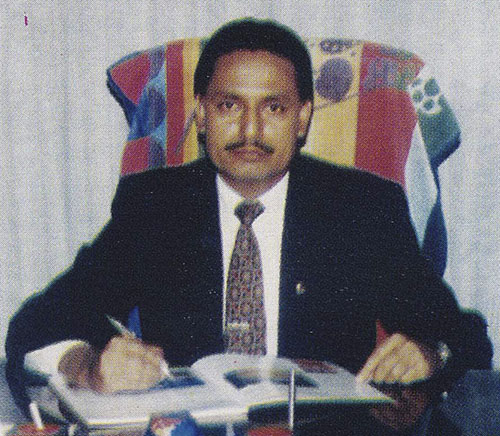
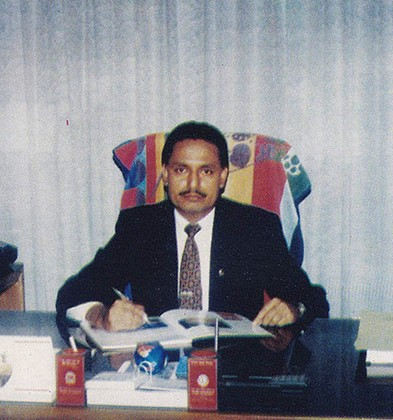
font, team image changes and add netlify attribute to the contact form

diff --git a/index.html b/index.html
@@ -32,7 +32,7 @@
   <header id="home">
     <div id="home-slider" class="carousel slide carousel-fade" data-ride="carousel">
       <div class="carousel-inner">
-        <div class="item active" style="background-image: url(images/slider/boss.jpg)">
+        <div class="item active" style="background-image: url(images/slider/boss.jpg);">
           <div class="caption">
             <h1 class="animated fadeInLeftBig">Welcome to <span>AL-DUSHARY ENTERPRISE</span></span></h1>
             <p class="animated fadeInRightBig">Govt. Approved Recruiting Agency. <br/>License No: RL-420</p>
@@ -205,7 +205,7 @@
               <i>1</i>
             </div>
             <div class="service-info">
-              <h3>Categorisation of workers</h3>
+              <h3>CATEGORISATION OF WORKERS</h3>
               <p>We categorized our manpower resources under different heads such as skilled, semi-skilled and unskilled manpower. We also categorise them sectorwise.</p>
             </div>
           </div>
@@ -321,6 +321,7 @@
           </div>
           <div class="company-list">
             <h3>clients in Malaysia</h1>
+              <hr>
             <ul>
               <li><a target="_blank" rel="noopener noreferrer" href="https://www.felda.gov.my/">Falda</a></li>
               <li><a target="_blank" rel="noopener noreferrer" href="https://www.felcra.com.my/">Felcra Berhad</a></li>
@@ -366,6 +367,7 @@
           </div>
           <div class="company-list">
             <h3>clients in Saudi Arabia</h1>
+              <hr>
             <ul>
               <li>BEER AL-WADY EST.</li>
               <li>HALIL DAYFULLAH AL-MOTAIRY</li>
@@ -399,6 +401,7 @@
           </div>
           <div class="company-list">
             <h3>clients in Dubai</h1>
+              <hr>
             <ul>
               <li>WARDA APPARELS</li>
               <li>SULAIMAN GARMENTS</li>
@@ -429,6 +432,7 @@
           </div>
           <div class="company-list">
             <h3>clients in Oman</h1>
+              <hr>
             <ul>
               <li>GULF APPARELS</li>
             </ul>
@@ -453,6 +457,7 @@
           </div>
           <div class="company-list">
             <h3>clients in Singapore</h1>
+              <hr>
             <ul>
               <li>SMA ENGINEERING & CONSTRUCTION</li>
               <li>ZSC ENTERPRISE DPS ENTERPRISE</li>
@@ -478,6 +483,7 @@
           </div>
           <div class="company-list">
             <h3>clients in Bahrain</h1>
+              <hr>
             <ul>
               <li>CONCORD GARMENTS MANAMA</li>
               <li><a target="_blank" rel="noopener noreferrer" href="http://www.nassgroup.com/">ABDULLAH AL NASS MANAMA</a></li>
@@ -503,31 +509,12 @@
       </div>
       <div class="team-members">
         <div class="row">
-          <div class="col-sm-3">
+          <div class="col-sm-12">
             <div class="team-member wow flipInY" data-wow-duration="1000ms" data-wow-delay="300ms">
               <div class="member-image">
-                <img class="img-responsive" src="images/team/jaman.jpg" alt="">
-              </div>
-              <div class="member-info">
-                <h3>Mohammad Kamruzzaman</h3>
-                <h4>Manager</h4>
-                <p></p>
-              </div>
-              <!-- <div class="social-icons">
-                <ul>
-                  <li><a class="facebook" href="#"><i class="fa fa-facebook"></i></a></li>
-                  <li><a class="twitter" href="#"><i class="fa fa-twitter"></i></a></li>
-                  <li><a class="linkedin" href="#"><i class="fa fa-linkedin"></i></a></li>
-                  <li><a class="dribbble" href="#"><i class="fa fa-dribbble"></i></a></li>
-                  <li><a class="rss" href="#"><i class="fa fa-rss"></i></a></li>
-                </ul>
-              </div> -->
-            </div>
-          </div>
-          <div class="col-sm-3">
-            <div class="team-member wow flipInY" data-wow-duration="1000ms" data-wow-delay="500ms">
-              <div class="member-image">
-                <img class="img-responsive" src="images/team/boss.jpg" alt="">
+                <div class="text-center">
+                  <img class="rounded" src="images/team/boss.jpg" alt="">
+                </div>
               </div>
               <div class="member-info">
                 <h3>Mohammed Sanaullah</h3>
@@ -545,10 +532,31 @@
               </div> -->
             </div>
           </div>
-          <div class="col-sm-3">
+          <div class="col-sm-4">
+            <div class="team-member wow flipInY" data-wow-duration="1000ms" data-wow-delay="500ms">
+              <div class="member-image">
+                <img class="img-responsive" src="images/team/jaman2.jpg" alt="">
+              </div>
+              <div class="member-info">
+                <h3>Mohammad Kamruzzaman</h3>
+                <h4>Manager</h4>
+                <p></p>
+              </div>
+              <!-- <div class="social-icons">
+                <ul>
+                  <li><a class="facebook" href="#"><i class="fa fa-facebook"></i></a></li>
+                  <li><a class="twitter" href="#"><i class="fa fa-twitter"></i></a></li>
+                  <li><a class="linkedin" href="#"><i class="fa fa-linkedin"></i></a></li>
+                  <li><a class="dribbble" href="#"><i class="fa fa-dribbble"></i></a></li>
+                  <li><a class="rss" href="#"><i class="fa fa-rss"></i></a></li>
+                </ul>
+              </div> -->
+            </div>
+          </div>
+          <div class="col-sm-4">
             <div class="team-member wow flipInY" data-wow-duration="1000ms" data-wow-delay="800ms">
               <div class="member-image">
-                <img class="img-responsive" src="images/team/suzan.jpg" alt="">
+                <img class="img-responsive" src="images/team/suzan2.jpg" alt="">
               </div>
               <div class="member-info">
                 <h3>Ariful Hoque</h3>
@@ -566,7 +574,7 @@
               </div> -->
             </div>
           </div>
-          <div class="col-sm-3">
+          <div class="col-sm-4">
             <div class="team-member wow flipInY" data-wow-duration="1000ms" data-wow-delay="1100ms">
               <div class="member-image">
                 <img class="img-responsive" src="images/team/shakil.jpg" alt="">
@@ -607,7 +615,7 @@
         <div class="contact-form wow fadeIn" data-wow-duration="1000ms" data-wow-delay="600ms">
           <div class="row">
             <div class="col-sm-6">
-              <form id="main-contact-form" name="contact-form" method="post" action="#">
+              <form id="main-contact-form" name="contact-form" method="post" action="#" netlify>
                 <div class="row  wow fadeInUp" data-wow-duration="1000ms" data-wow-delay="300ms">
                   <div class="col-sm-6">
                     <div class="form-group">

diff --git a/css/main.css b/css/main.css
@@ -24,7 +24,8 @@ h1, h2, h3, h4, h5, h6 {
 }
 
 h2 {
-  font-size: 30px;
+  font-size: 37px;
+  font-weight: 1.5em;
   margin-bottom: 20px;
 }
 
@@ -132,6 +133,13 @@ section {
 #home-slider {
   overflow: hidden;
   position: relative;
+}
+
+#home-slider .item{
+  width: 100%;
+  background-position: center;
+  background-repeat: no-repeat;
+  background-size: cover;
 }
 
 #home-slider .caption {
@@ -290,6 +298,8 @@ section {
   background-image: url(../images/about-bg.jpg);
   padding: 60px 0;
   margin-top: 35vh;
+  font-size: 1.2em;
+  line-height: 1.9em;
 }
 
 #about-us h2 {
@@ -314,7 +324,7 @@ section {
 ********Manpower*******
 **************************/
 #manpower{
-  
+  font-size: 1.4em;
 }
 
 #manpower h2{
@@ -342,6 +352,14 @@ section {
   width: 90px;  
   -webkit-transition: background-color 0.2s ease;
   transition: background-color 0.2s ease;
+}
+
+#services{
+  
+}
+
+#services .row p{
+  font-size: 1.4em;
 }
 
 .our-services .col-sm-4:hover .service-icon {
@@ -379,6 +397,21 @@ section {
 #portfolio .col-sm-3  {
   overflow: hidden;
   padding: 0;
+}
+
+#portfolio{
+  font-size: 1.3em;
+}
+
+#portfolio h3{
+  font-size: 1.3em;
+  margin-left: 1.2em;
+}
+
+#portfolio hr{
+  border: 0;
+  height: 1px;
+  background-image: linear-gradient(to right, rgba(0, 0, 0, 0), rgba(0, 0, 0, 0.75), rgba(0, 0, 0, 0));
 }
 
 #portfolio .folio-item {
@@ -555,11 +588,21 @@ section {
   transform: scale(1.2);
 }
 
+#team .team-member img{
+  height: 300px;
+  width: 300px;
+}
 .team-member {
   text-align: center;
   color: #333;
   font-size: 14px;
 }
+
+.team-member .col-sm-12{
+  
+}
+
+
 
 .team-member:hover .social-icons ul li a.facebook {
   background-color: #3b5999;
@@ -866,6 +909,9 @@ section {
 #contact {
   padding-top: 45px;
   padding-bottom: 0;
+
+  font-size: 1.4em;
+  line-height: 1.9em;
 }
 
 #google-map {
@@ -901,6 +947,8 @@ textarea.form-control {
 .contact-info {
   padding-left:70px;
   font-weight: 300;
+  background-color: rgba(0, 0, 0, 0.75);
+  padding: 1.5em;
 }
 
 ul.address {
@@ -993,3 +1041,8 @@ ul.address {
 /*Presets*/
 
 
+h2 {
+  font-size: 37px;
+  font-weight: 1.5em;
+  margin-bottom: 20px;
+}
